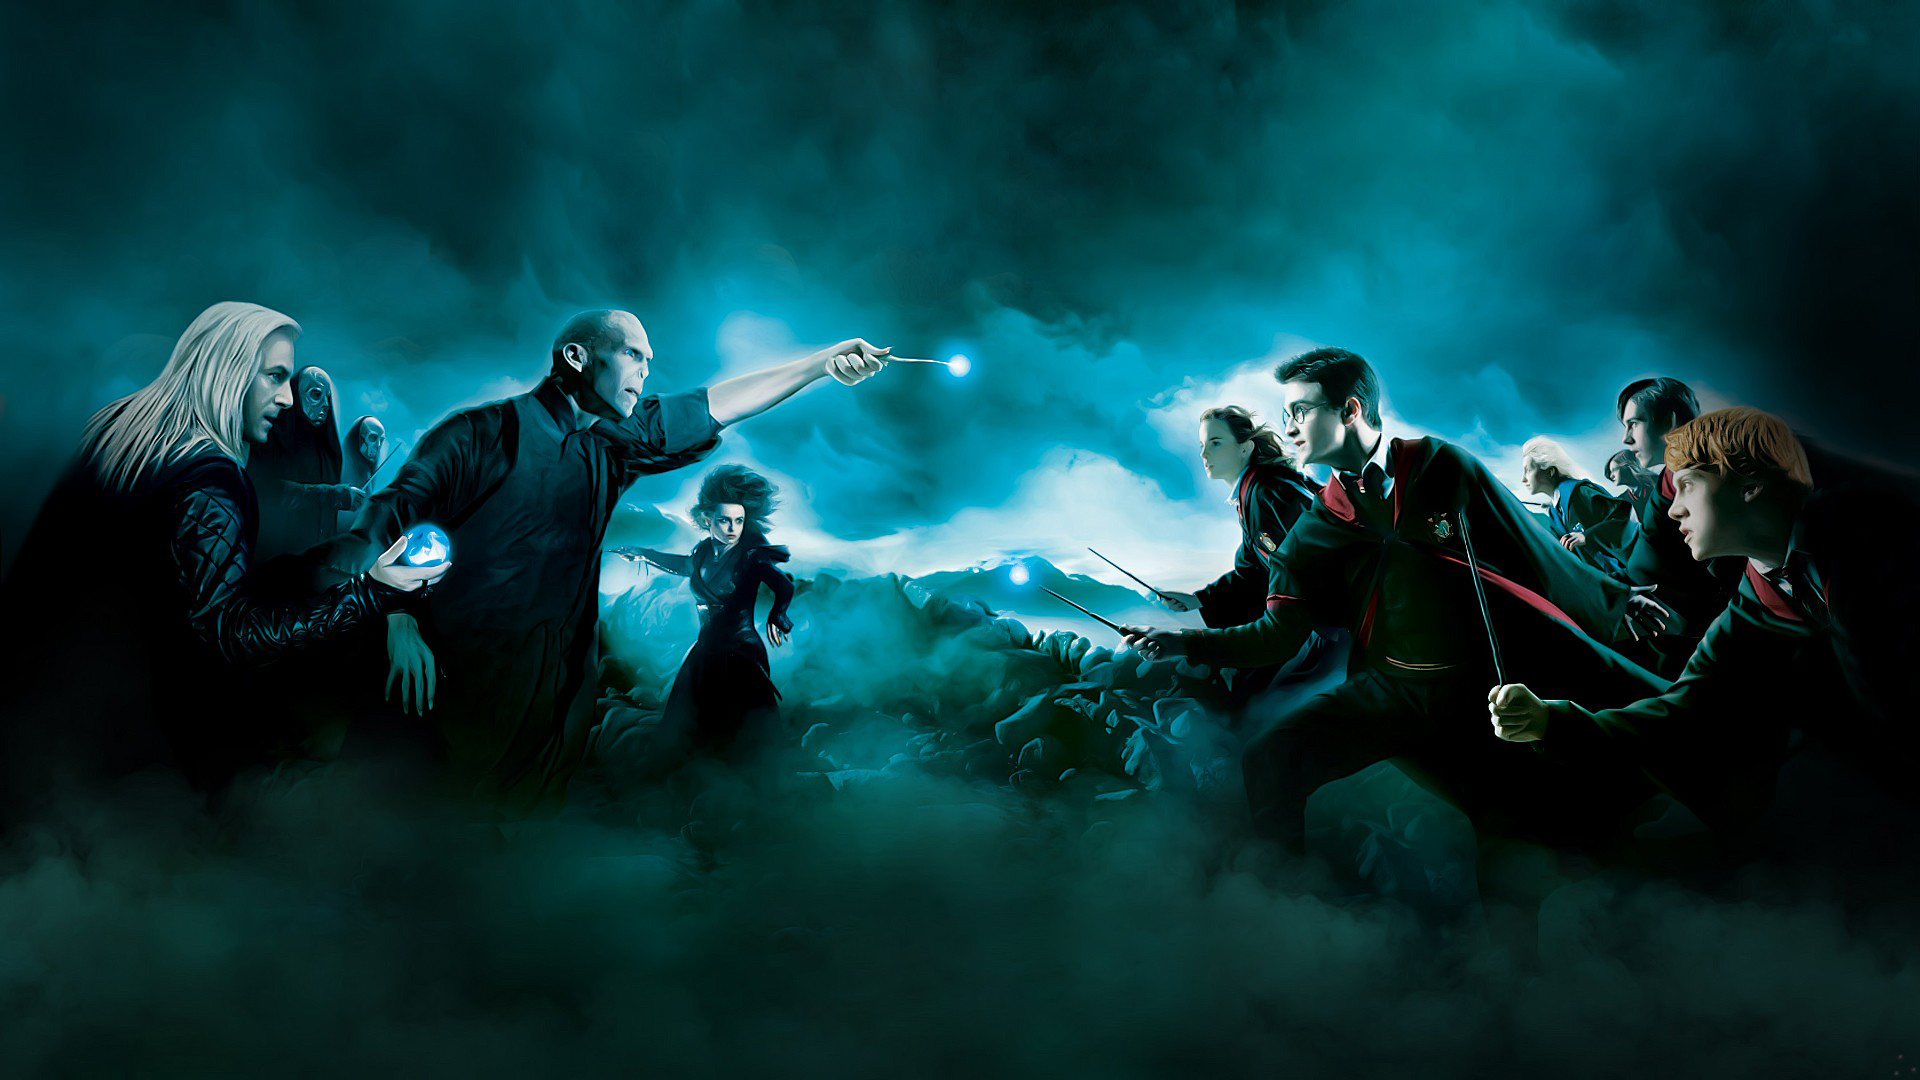
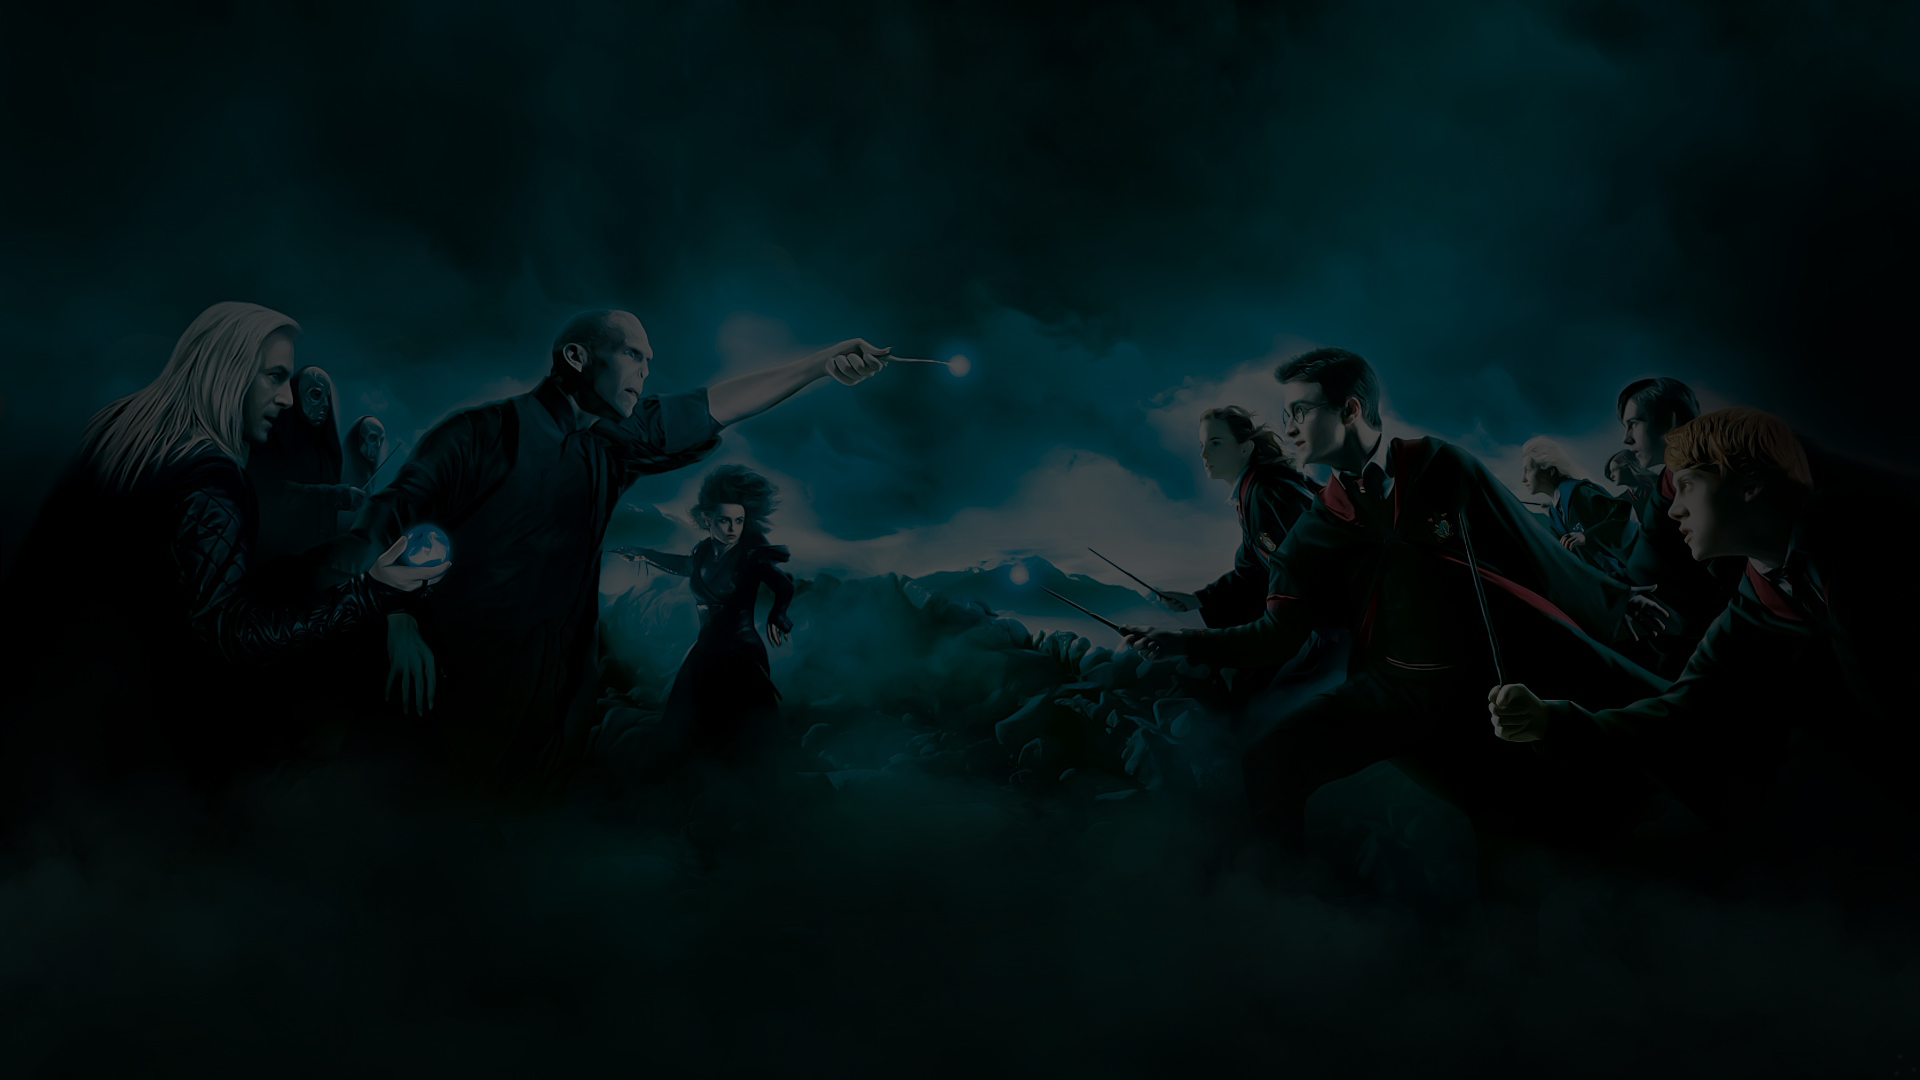
fotos correctas

diff --git a/src/style.css b/src/style.css
@@ -63,20 +63,18 @@ border-radius: 20%;
 } /* Acá seteamos imagen pantalla ememigo */
 
 .imagenPortada {
-    background-image: url(Images_Proyect/fondo_1.jpg);
+    background-image: url(Images_Proyect/fondo_1.png);
     background-repeat: no-repeat;
     background-size: cover;
     width: 100%;
    height: 600px;
-   opacity: 0.3;
    margin: 0em 0em 0em 0em;
    display: block;
    margin: auto;
-    background-color: #000000;
 } /* Acá seteamos imagen pantalla portada */
 
 .imagenPareja {
-    background-image: url(Images_Proyect/fondo_amor.jpg);
+    background-image: url(Images_Proyect/fondo_amor.png);
     background-repeat: no-repeat;
     background-size: cover;
     width: 100%;
